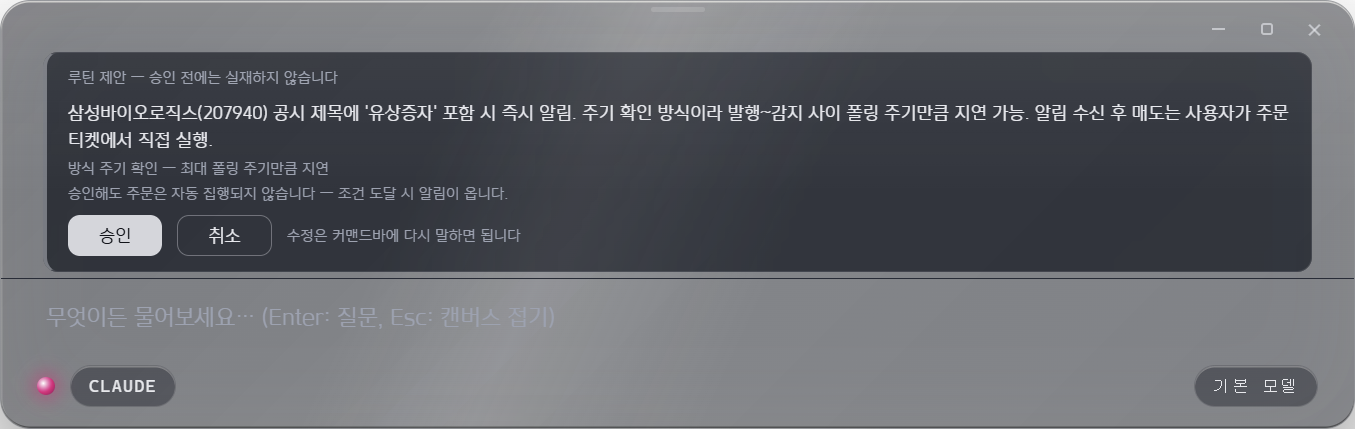
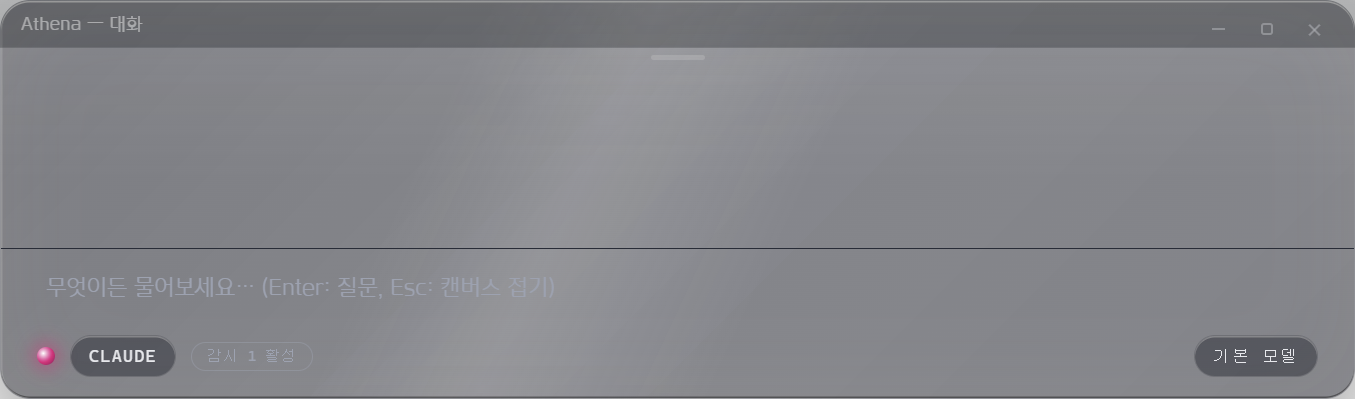
feat(app): 보이는 타이틀바 — 두 창 맨 위 32px 캡션 + 휘도 적응 계단화
사용자 피드백 2건 즉시 반영:
① '맨 위를 잡고 끄는데 안 끌린다. 왜 모델 필이 있는 곳에서 끌게 하냐 —
   다른 앱들처럼'(Codex 상단 띠 캡처 참조): 컨트롤 스트립 캡션과 보이지 않는
   스트립을 폐기하고, 두 창 공통 **보이는 타이틀바 32px**(ui-kit .titlebar,
   무채색 값 단계 띠 + 헤어라인 + 창 이름 라벨)로 개정. 메뉴·기능 없음(창
   크롬이지 툴바가 아님 — §8 구분). 부팅 연출 중엔 winControls처럼 숨김.
   콘텐츠는 바 아래에서 시작(.app padding-top·.grid 패딩). 자동 성장 측정에
   바 높이 포함 — 안 하면 성장 임계를 못 넘는 회귀(검증5 실측 249→249)를
   재현·수정했다
② '앱 투명도가 막 바뀐다': 휘도 감지-적응이 연속값 직결이라 배경이 움직일
   때마다 유리가 2초 주기로 숨 쉬던 결함 → 3계단(0/0.5/1)×3연속(6초) 체류
   스테퍼로 전환(backdrop-luma createBrightnessStepper). 경계 교대는 체류
   리셋으로 현 계단 유지(히스테리시스). 단위 테스트 4건 추가

검증: app 224건 통과(220+스테퍼 4) · verify 검증 1~19 전 단언 통과
(검증11 창 이동 표준화 — 타이틀바 캡션·구멍·짝 팔로우 재확인). 문서:
two-windows.md 정정 5 개정, README 창 조작 표, plan.md

diff --git a/app/verify.js b/app/verify.js
@@ -863,7 +863,7 @@ app.whenReady().then(async () => {
       const cs = getComputedStyle(el);
       return (cs.getPropertyValue('app-region') || cs.getPropertyValue('-webkit-app-region') || '').trim();
     };
-    return { strip: reg('#controlStrip'), dot: reg('#controlStrip .dot'), pill: reg('#cliPill'),
+    return { strip: reg('#dragStrip'), controlStrip: reg('#controlStrip'),
              grip: reg('#grip'), winBtn: reg('.win-btn'), history: reg('#history'),
              settingsHead: reg('#settings .settings-head') };
   })()`);
@@ -893,10 +893,10 @@ app.whenReady().then(async () => {
   console.log('[verify] 검증11(창 이동 표준화):', JSON.stringify(report.dragStandard));
   assertOk('dragStandard: 옛 JS 드래그 채널이 죽어 있다(allowlist 거부)', oldChannelDead === true);
   assertOk('dragStandard: 크기 불변(5e0a9ab 회귀 가드 계승)', report.dragStandard.sizeUnchanged === true);
-  assertOk('dragStandard: 컨트롤 스트립 = 캡션(drag)', appRegions.strip === 'drag');
-  assertOk('dragStandard: 점·필·grip·창 버튼 = no-drag 구멍',
-    appRegions.dot === 'no-drag' && appRegions.pill === 'no-drag'
-    && appRegions.grip === 'no-drag' && appRegions.winBtn === 'no-drag');
+  assertOk('dragStandard: 대화 창 맨 위 스트립 = 캡션(drag)', appRegions.strip === 'drag');
+  assertOk('dragStandard: grip 중앙·창 버튼 = no-drag 구멍',
+    appRegions.grip === 'no-drag' && appRegions.winBtn === 'no-drag');
+  assertOk('dragStandard: 컨트롤 스트립은 캡션이 아니다(2026-08-19 개정 — 맨 위만)', appRegions.controlStrip !== 'drag');
   assertOk('dragStandard: 본문(.history)은 손잡이가 아니다', appRegions.history !== 'drag');
   assertOk('dragStandard: 설정 헤더 = 캡션(drag)', appRegions.settingsHead === 'drag');
   assertOk('dragStandard: 캔버스 상단 스트립 = 캡션(drag)', canvasStripRegion === 'drag');

diff --git a/app/chat.js b/app/chat.js
@@ -93,6 +93,7 @@ window.addEventListener('DOMContentLoaded', () => {
   const finishBoot = async () => {
     $boot.hidden = true;
     $winControls.hidden = false; // 창 크롬은 창이 확정된 뒤에만 존재한다(부팅 연출 보호)
+    document.getElementById('dragStrip').hidden = false; // 타이틀바도 같은 크롬이다
     const onboardState = await onboardStatePromise;
     if (onboardState && onboardState.needed) {
       startOnboarding(onboardState.step);
@@ -325,13 +326,17 @@ function scheduleHeightSync() {
 }
 
 function measureNeededHeight() {
+  // 타이틀바(2026-08-19) — 창 크롬이 32px를 차지하므로 필요 높이에 포함한다.
+  // 안 하면 콘텐츠가 그만큼 임계를 못 넘어 자동 성장이 죽는다(검증5 실측).
+  const bar = document.getElementById('dragStrip');
+  const barH = (bar && bar.offsetHeight) || 32;
   const gripH = $grip.getBoundingClientRect().height;
   // AT-CH-001R — 입력 영역은 이제 2행(입력줄 52 + 컨트롤 스트립 48) 스택이다.
   const inputStack = document.querySelector('.input-stack');
   const inputH = inputStack ? inputStack.getBoundingClientRect().height : 100;
   const histNeeded = $history.scrollHeight + 16; // padding
   // 측정은 CSS px, 창 높이는 물리 px — 줌 배율을 곱해 보낸다(main의 clamp와 단위 일치).
-  return Math.round((gripH + inputH + histNeeded) * window.athena.getZoomFactor());
+  return Math.round((barH + gripH + inputH + histNeeded) * window.athena.getZoomFactor());
 }
 
 // 줌 배율이 바뀌면 같은 내용이라도 필요한 창 높이가 달라진다 — 다시 재서 요청한다.

diff --git a/app/lib/main/backdrop-luma.js b/app/lib/main/backdrop-luma.js
@@ -64,6 +64,26 @@ function smooth(prev, next, k = 0.35) {
   return prev + (next - prev) * k;
 }
 
+// 계단화 + 체류(2026-08-19 사용자 보고 "투명도가 막 바뀐다"): 연속 b값을 그대로
+// 쓰면 배경 콘텐츠가 움직일 때마다(터미널 스크롤·영상) 유리가 2초 주기로 숨 쉬듯
+// 변한다. b를 3계단(0 / 0.5 / 1)으로 양자화하고, **다른 계단이 dwell회 연속**
+// 유지될 때만 전환한다 — 전환은 드물고 뚜렷하게. 경계에서 계단이 교대하면 체류
+// 카운트가 리셋돼 현 계단에 머문다(히스테리시스).
+function createBrightnessStepper({ dwell = 3 } = {}) {
+  let current = null;
+  let candidate = null;
+  let count = 0;
+  const stepOf = (b) => (b < 0.25 ? 0 : b < 0.75 ? 0.5 : 1);
+  return function step(b) {
+    const s = stepOf(b);
+    if (current === null) { current = s; return current; }
+    if (s === current) { candidate = null; count = 0; return current; }
+    if (s === candidate) { count += 1; } else { candidate = s; count = 1; }
+    if (count >= dwell) { current = s; candidate = null; count = 0; }
+    return current;
+  };
+}
+
 // 화면 좌표 rect → 썸네일 좌표 rect (버림/올림으로 창 영역을 보수적으로 넉넉히 제외)
 function scaleRect(rect, scaleX, scaleY) {
   return {
@@ -82,5 +102,6 @@ module.exports = {
   lumaToBrightness,
   brightnessToAlpha,
   smooth,
+  createBrightnessStepper,
   scaleRect,
 };

diff --git a/app/chat.css b/app/chat.css
@@ -216,6 +216,9 @@ html, body { background: transparent; }
 .app {
   position: fixed; inset: 0;
   display: flex; flex-direction: column;
+  /* 콘텐츠는 타이틀바(32px, ui-kit.css) 아래에서 시작한다 — 유리 자체(inset:0)는
+   * 바 뒤까지 이어져 크롬이 유리 위 값 단계로 얹힌다. */
+  padding-top: 32px;
   /* 유리 두께 — 기본(뒤=데스크톱) 0.30. --glass-alpha는 창 높이에 따라 JS가 연속
    * 보간한다(0.30↔0.55, chat.js applyGlassFraction).
    * 2026-08-18 하향(사용자 지시 "그냥 검은 창 같다"): 가독성 블러는 네이티브
@@ -392,13 +395,9 @@ html, body { background: transparent; }
   display: flex; align-items: center; gap: 10px;
   padding: 0 24px 8px 24px;
   height: 48px;
-  /* 커맨드 카드의 크롬 행 = 네이티브 캡션(창 이동 손잡이, 2026-08-19 표준화).
-   * 이동은 OS(DWM)가 수행한다 — 가장자리 끌기 스냅 포함. 점·필은 아래 no-drag
-   * 구멍으로 클릭이 산다. */
-  -webkit-app-region: drag;
-  cursor: grab;
+  /* 캡션이 아니다(2026-08-19 개정 — 사용자: "왜 모델 필이 있는 곳에서 끌게
+   * 하냐, 다른 앱들처럼"). 창 이동 손잡이는 맨 위 .drag-strip 하나다. */
 }
-.control-strip .dot, .control-strip .pill { -webkit-app-region: no-drag; }
 .strip-spacer { flex: 1; }
 .pill {
   display: flex; align-items: center; gap: 8px;

diff --git a/app/canvas.css b/app/canvas.css
@@ -65,7 +65,8 @@ html, body { background: transparent; }
   grid-template-columns: 1fr 1fr;
   grid-auto-rows: min-content;
   gap: 16px;
-  padding: 20px;
+  /* 상단은 타이틀바(32px) 아래에서 시작한다 — 카드가 크롬에 깔리지 않게. */
+  padding: 44px 20px 20px;
   align-content: start;
   /* 카드가 창보다 많이 쌓이면 스크롤 — 2026-08-17 디자인 리뷰 [HIGH] 정정.
    * 이전 판은 부모 .mosaic의 overflow:hidden에 잘려 4번째 카드부터 영구히
@@ -453,15 +454,4 @@ table.fin-table { width: 100%; border-collapse: collapse; font-variant-numeric: 
 .free-tree-scalar { font-size: var(--text-base); color: var(--color-k-text); font-variant-numeric: tabular-nums; }
 
 
-/* 창 이동 손잡이(2026-08-19 표준화) — 상단 14px이 네이티브 캡션이다.
- * 이동은 OS(DWM)가 수행한다(가장자리 끌기 스냅 포함). 보이지 않는 순수 히트
- * 영역 — 장식 유리 금지(soul.md §7)라 시각 요소를 얹지 않는다. 카드 상호작용은
- * 모자이크 패딩(≥14px) 아래에서 시작하므로 겹치지 않는다. */
-.drag-strip {
-  position: fixed;
-  top: 0; left: 0; right: 0;
-  height: 14px;
-  z-index: 7;
-  -webkit-app-region: drag;
-  cursor: grab;
-}
+/* .titlebar(창 크롬·이동 캡션)은 두 창 공용 — styles/ui-kit.css가 정의한다. */

diff --git a/app/styles/ui-kit.css b/app/styles/ui-kit.css
@@ -248,3 +248,28 @@
 .uk-card-close:active { background: rgba(255, 255, 255, 0.12); }
 .uk-card-close:focus-visible { outline: 1px solid var(--color-k-dim); outline-offset: 1px; opacity: 1; }
 @media (prefers-reduced-motion: reduce) { .uk-card-close { transition: none; } }
+
+/* 타이틀바(2026-08-19, 사용자 지시 — Codex 캡처의 상단 띠 참조: "다른 앱들처럼
+ * 맨 위를 끌면 끌리게, 보이게") — 두 창 공통 창 크롬이다. 전체가 네이티브
+ * 캡션(-webkit-app-region: drag)이라 이동은 OS(DWM)가 수행한다(가장자리 끌기
+ * 스냅 포함). 메뉴·기능은 올리지 않는다(§8 상시 툴바 탈락 조건 — 이건 기능
+ * 바가 아니라 창 크롬이다). 깊이는 값으로: 유리 위 한 단계 어두운 무채색 띠
+ * + 헤어라인. 겹치는 실기능(창 버튼)은 no-drag 구멍. */
+.titlebar {
+  position: fixed;
+  top: 0; left: 0; right: 0;
+  height: 32px;
+  display: flex; align-items: center;
+  padding: 0 14px;
+  z-index: 7;
+  -webkit-app-region: drag;
+  cursor: grab;
+  background: rgba(8, 10, 14, 0.28);
+  border-bottom: 1px solid rgba(255, 255, 255, 0.07);
+}
+.titlebar-label {
+  font-size: 12px;
+  color: rgba(255, 255, 255, 0.45);
+  letter-spacing: 0.02em;
+  user-select: none;
+}

diff --git a/app/chat.html b/app/chat.html
@@ -121,6 +121,12 @@
        밖 고정 오버레이다(모드가 바뀌어도 그대로). 부팅 연출 중에는 숨겼다가
        finishBoot에서 드러난다. 닫기는 종료가 아니다 — 두 창을 숨기고 프로세스는
        백그라운드에 남는다(트레이에서 복귀, main.js). -->
+  <!-- 타이틀바 — 맨 위 32px 네이티브 캡션(2026-08-19, "다른 앱들처럼 맨 위를
+       끌면 끌리게, 보이게"). 모드 무관 상시 창 크롬이라 #app/#onboard/#settings/
+       #order 밖 고정 오버레이다(styles/ui-kit.css .titlebar). 부팅 연출 중에는
+       winControls처럼 숨긴다 — finishBoot가 드러낸다. -->
+  <div id="dragStrip" class="titlebar" hidden aria-hidden="true"><span class="titlebar-label">Athena — 대화</span></div>
+
   <div id="winControls" class="win-controls" hidden>
     <button id="winMin" class="win-btn" type="button" aria-label="최소화" title="최소화 (Ctrl+M)"><span class="win-ic-min"></span></button>
     <button id="winMax" class="win-btn" type="button" aria-label="최대 높이로 확장" title="최대 높이로 확장"><span class="win-ic-max"></span></button>

diff --git a/app/main.js b/app/main.js
@@ -717,6 +717,9 @@ let backdropTimer = null;
 let smoothedLuma = null;
 let sampleFailures = 0;
 let lastSent = null;
+// 계단화 스테퍼(2026-08-19 사용자 보고 "투명도가 막 바뀐다") — 3계단×3연속(6초)
+// 일 때만 전환. 연속값 직결은 배경이 움직일 때마다 유리가 숨 쉬는 결함이었다.
+const brightnessStepper = backdropLuma.createBrightnessStepper({ dwell: 3 });
 
 async function sampleBackdropOnce() {
   if (!chatWin || chatWin.isDestroyed()) return;
@@ -744,7 +747,7 @@ async function sampleBackdropOnce() {
     if (luma === null) return; // 창이 화면을 다 덮어 판정 불가 — 이전 값 유지
     sampleFailures = 0;
     smoothedLuma = backdropLuma.smooth(smoothedLuma, luma);
-    const b = backdropLuma.lumaToBrightness(smoothedLuma);
+    const b = brightnessStepper(backdropLuma.lumaToBrightness(smoothedLuma));
     sendBackdropAlphas({
       brightness: b,
       windowAlpha: backdropLuma.brightnessToAlpha(b, 0.30),

diff --git a/app/canvas.html b/app/canvas.html
@@ -12,9 +12,8 @@
   <div id="mosaic" class="mosaic glass">
     <div id="grid" class="grid"></div>
   </div>
-  <!-- 창 이동 손잡이 — 네이티브 캡션(2026-08-19 표준화). 시각 요소가 아니라
-       순수 히트 영역이다(장식 유리 금지, soul.md §7). canvas.css .drag-strip. -->
-  <div id="dragStrip" class="drag-strip" aria-hidden="true"></div>
+  <!-- 타이틀바 — 맨 위 32px 네이티브 캡션(2026-08-19 창 크롬, ui-kit.css .titlebar). -->
+  <div id="dragStrip" class="titlebar" aria-hidden="true"><span class="titlebar-label">Athena — 캔버스</span></div>
   <div class="glass-sheen" id="sheen" aria-hidden="true"></div>
 <!-- 렌더러 격리(2026-08-18, CLAUDE.md §6) — nodeIntegration:false라 require가
      없다. lib/*.js는 UMD 각주로 window.AthenaLib에 전역을 얹는 순수 <script>다.

diff --git a/ui/round-1R/two-windows.md b/ui/round-1R/two-windows.md
@@ -10,11 +10,15 @@
 사용자 실사용 지시: "평범한 윈도우 데스크탑 앱처럼, 적어도 클로드 데스크탑처럼
 창이 움직였으면 좋겠다. 본문을 잡아 끄는 게 이상하다."
 
-**① 손잡이.** 본문(이력·입력줄·설정 배경)은 더 이상 창 이동 손잡이가 아니다 —
-본문에서는 텍스트 선택이 된다. 손잡이는 크롬만이다: 대화 창 **컨트롤 스트립**
-(점·필 행)과 **설정/주문 헤더**, 캔버스 창 **상단 14px 스트립**(#dragStrip,
-보이지 않는 순수 히트 영역 — 장식 유리 금지). CSS `-webkit-app-region: drag`
-선언이고, 그 안의 실기능(점·필·grip·창 버튼)은 `no-drag` 구멍이다.
+**① 손잡이(같은 날 개정).** 본문(이력·입력줄·설정 배경)은 더 이상 창 이동
+손잡이가 아니다 — 본문에서는 텍스트 선택이 된다. 손잡이는 **두 창 공통,
+맨 위 32px의 보이는 타이틀바**(#dragStrip, ui-kit.css `.titlebar`) 하나다 —
+초판은 컨트롤 스트립·보이지 않는 상단 스트립이었으나 사용자 실사용 지적
+("맨 위를 잡고 끄는데 안 끌린다. 왜 모델 필이 있는 곳에서 끌게 하냐 — 다른
+앱들처럼")으로 같은 날 개정했다(Codex 데스크톱 상단 띠 캡처 참조). 타이틀바에
+메뉴·기능은 올리지 않는다 — 기능 바가 아니라 창 크롬이다(§8 상시 툴바 탈락
+조건과 구분). 설정/주문 헤더도 캡션을 유지한다. 실기능(창 버튼·grip)은
+`no-drag` 구멍, 컨트롤 스트립은 캡션이 아니다.
 
 **② 이동 주체.** 구판의 커서 폴링(`athena:window-drag`, 16ms setBounds)은 폐기.
 이동은 OS(DWM)가 수행한다 — 네이티브 타이틀바와 같은 감각이고, **가장자리 끌기

diff --git a/plan/plan.md b/plan/plan.md
@@ -39,10 +39,13 @@
 app: npm test → 220건 통과 · npm run verify → 검증 1~19 전 단언 통과
      검증11 재정의(창 이동 표준화): 옛 채널 거부·크기 불변·캡션/구멍 CSS 계약·
      짝 팔로우(+60,+40 외부 이동을 캔버스가 정확히 추종 후 복귀) 9단언 통과
-변경: 본문 드래그 폐기(텍스트 선택 복원) → 손잡이는 크롬만(컨트롤 스트립·설정/주문
-     헤더·캔버스 상단 14px 스트립, -webkit-app-region). 이동은 OS(DWM) 수행 —
+변경: 본문 드래그 폐기(텍스트 선택 복원) → 손잡이는 **두 창 공통 맨 위 32px
+     타이틀바**(-webkit-app-region, 같은 날 사용자 지적으로 컨트롤 스트립 캡션
+     제거·보이는 크롬으로 개정 — Codex 상단 띠 참조). 이동은 OS(DWM) 수행 —
      가장자리 끌기 스냅 신설. 드래그 시 창 짝은 한 몸(정착 팔로우, 두 창 헌법 유지).
-     근거: ui/round-1R/two-windows.md 정정 5. backend 무접촉.
+     휘도 적응 계단화: 사용자 보고 "투명도가 막 바뀐다" → 3계단×3연속(6초) 체류
+     스테퍼로 전환(backdrop-luma createBrightnessStepper, 단위 테스트 4건 — 220→224).
+     근거: ui/round-1R/two-windows.md 정정 5(개정). backend 무접촉.
 ```
 
 **2026-08-19 (3차 병합) · `그래프`(채팅→그래프 파이프라인) → `main` 병합 직후 재실측:**
